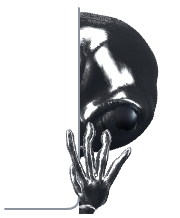
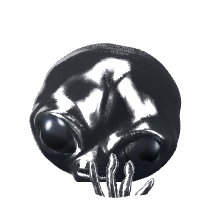
Move the portfolio alien onto the profile heading divider

diff --git a/README.md b/README.md
@@ -1,10 +1,8 @@
-# Ignasi
+<h1><a href="https://portfolio.bcignasi.workers.dev/"><img align="right" width="58" src="./assets/alien-peek.png" alt="Visit my portfolio"></a>Ignasi</h1>
 
 I'm a software engineer. I build custom software for clients and develop mobile apps.
 
 - **Holística** — I worked with a pharmacy team to understand what they needed and build a tool for their day-to-day work. [Read the case study](https://portfolio.bcignasi.workers.dev/holistica)
 - **ProcrastinApp** — I built a mobile planner that turns a conversation into tasks you can review and save. It was my final degree project at the UOC and earned the highest distinction (*Matrícula de Honor*). [Explore the code](https://github.com/bcignasi/ProcrastinApp)
-
-<a href="https://portfolio.bcignasi.workers.dev/"><img align="right" width="45" src="./assets/alien-peek.png" alt="Visit my portfolio — a little alien peeks around the corner"></a>
 
 [Visit my portfolio](https://portfolio.bcignasi.workers.dev/)
